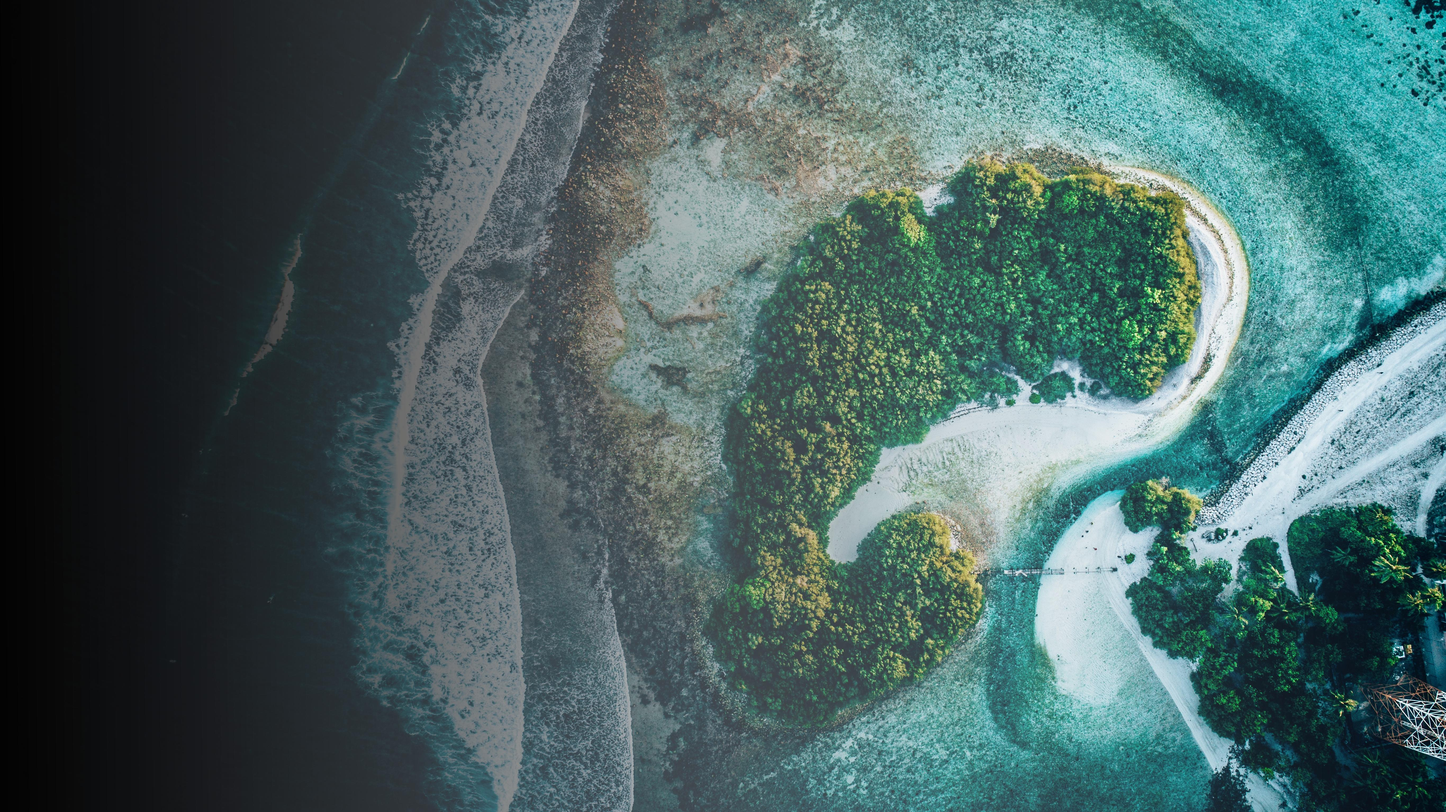
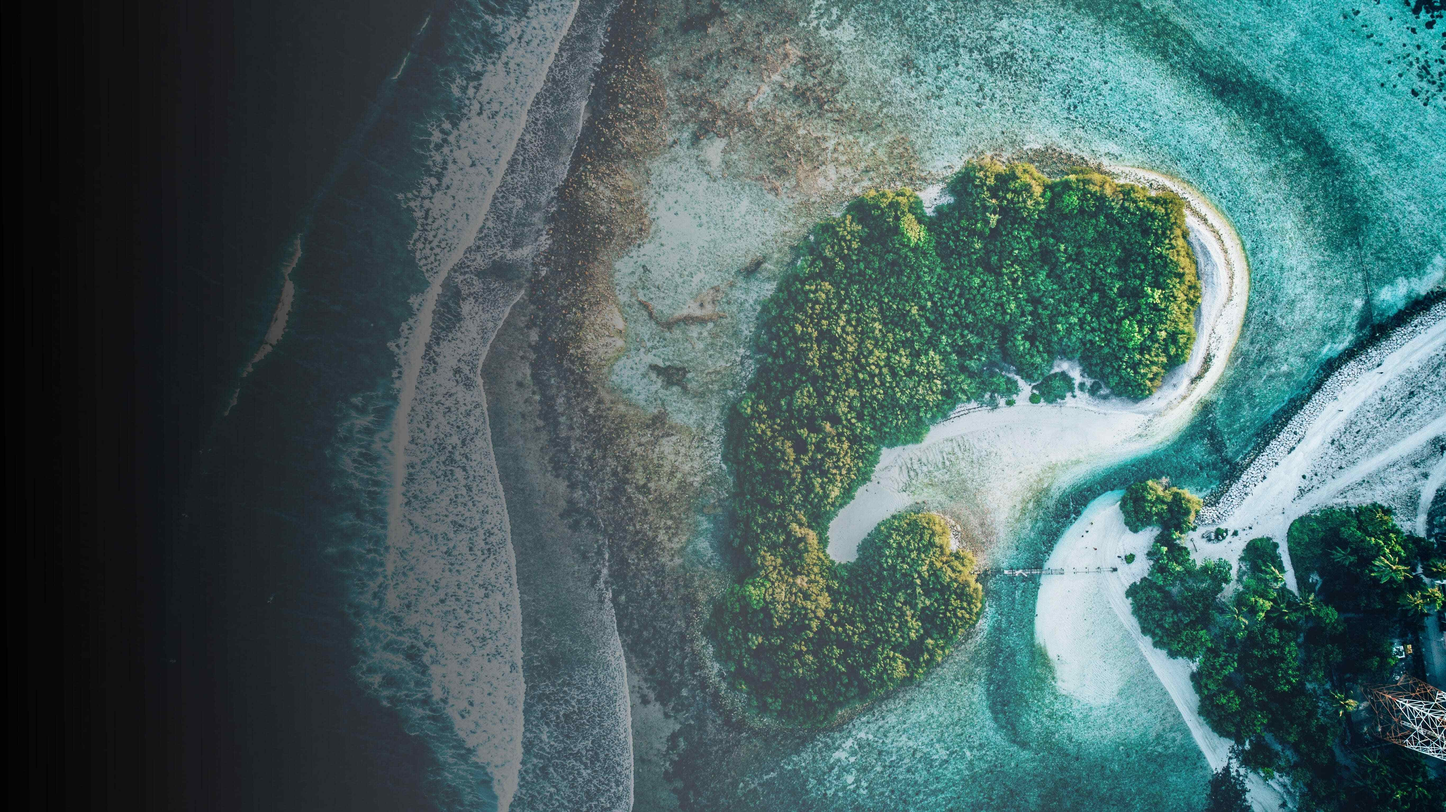
CSS and Image Changed

Changed region(s): [[0.9645, 0.8664, 1.0, 0.9283]]

diff --git a/css/style.css b/css/style.css
@@ -8,7 +8,7 @@
 * body {
   width: 100%;
   height: 100vh;
-  background-image: url(../../image/bg.jpg);
+  background-image: url(../image/bg.jpg);
   background-repeat: no-repeat;
   background-size: cover;
   color: #ffffff;
